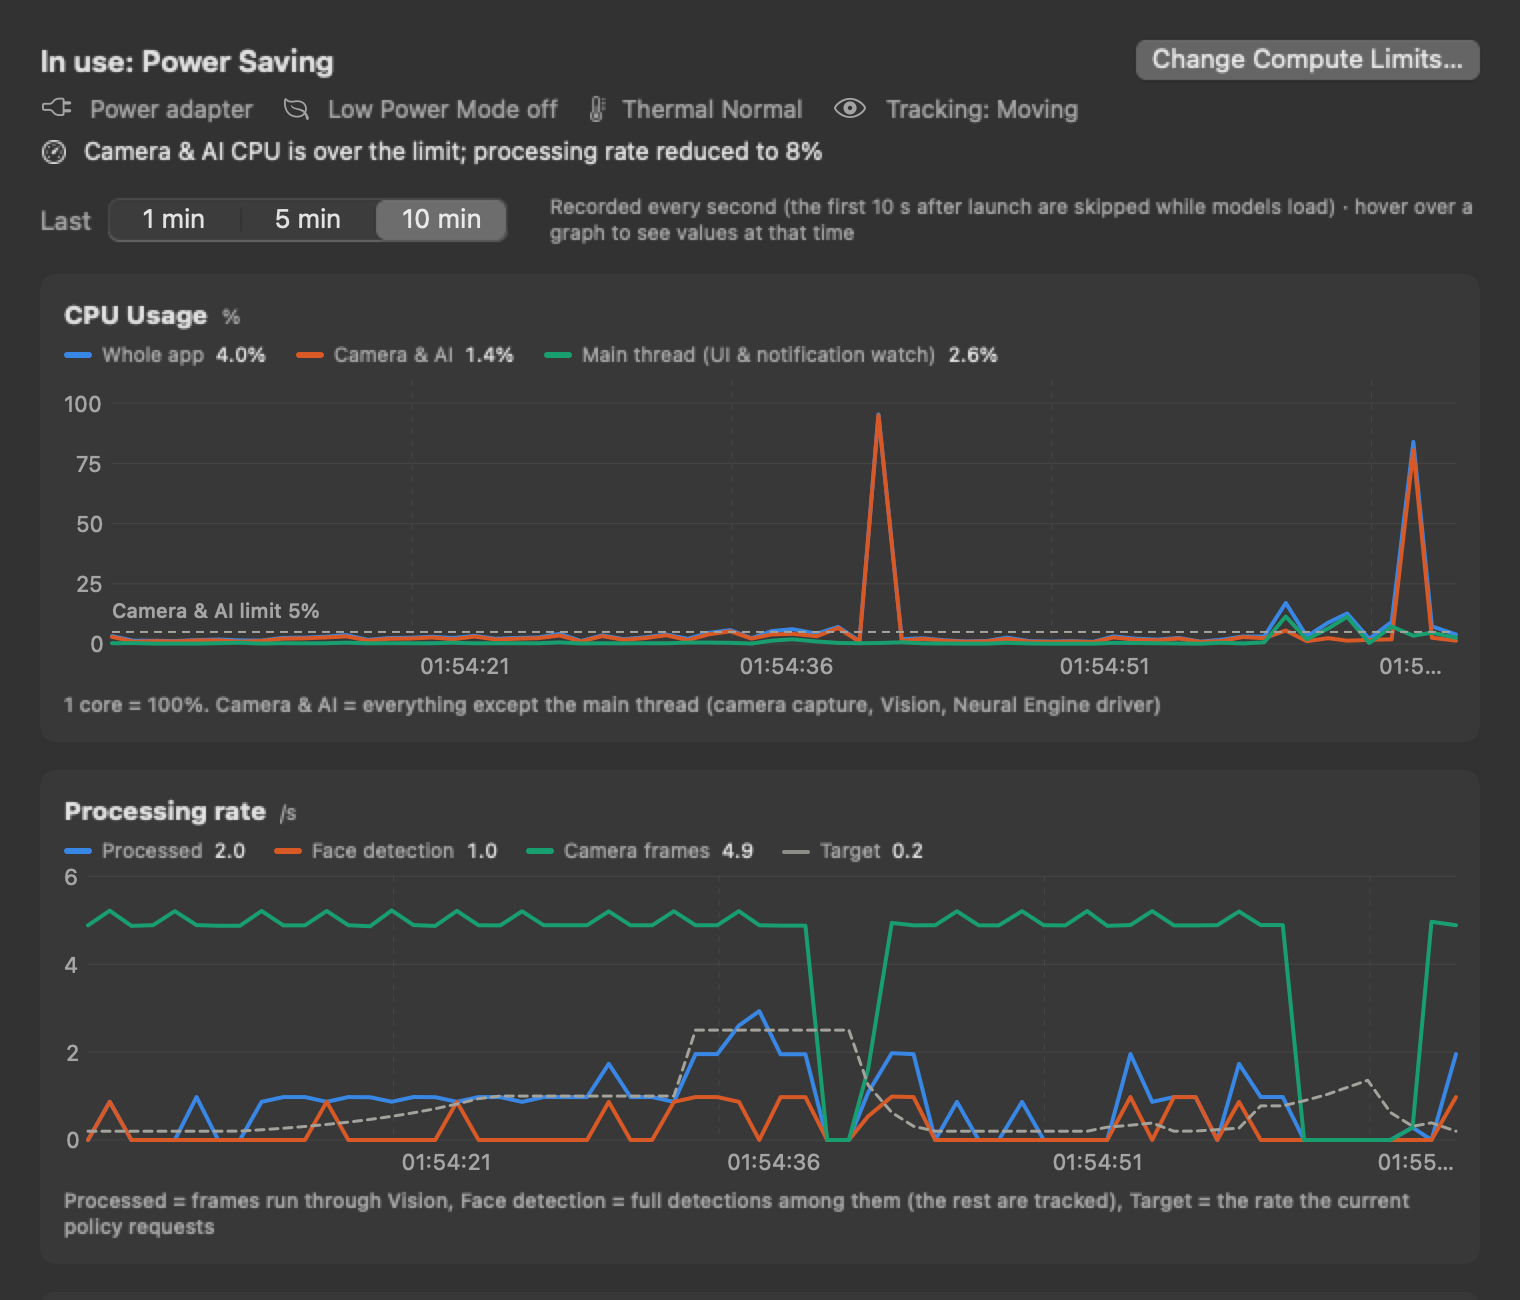
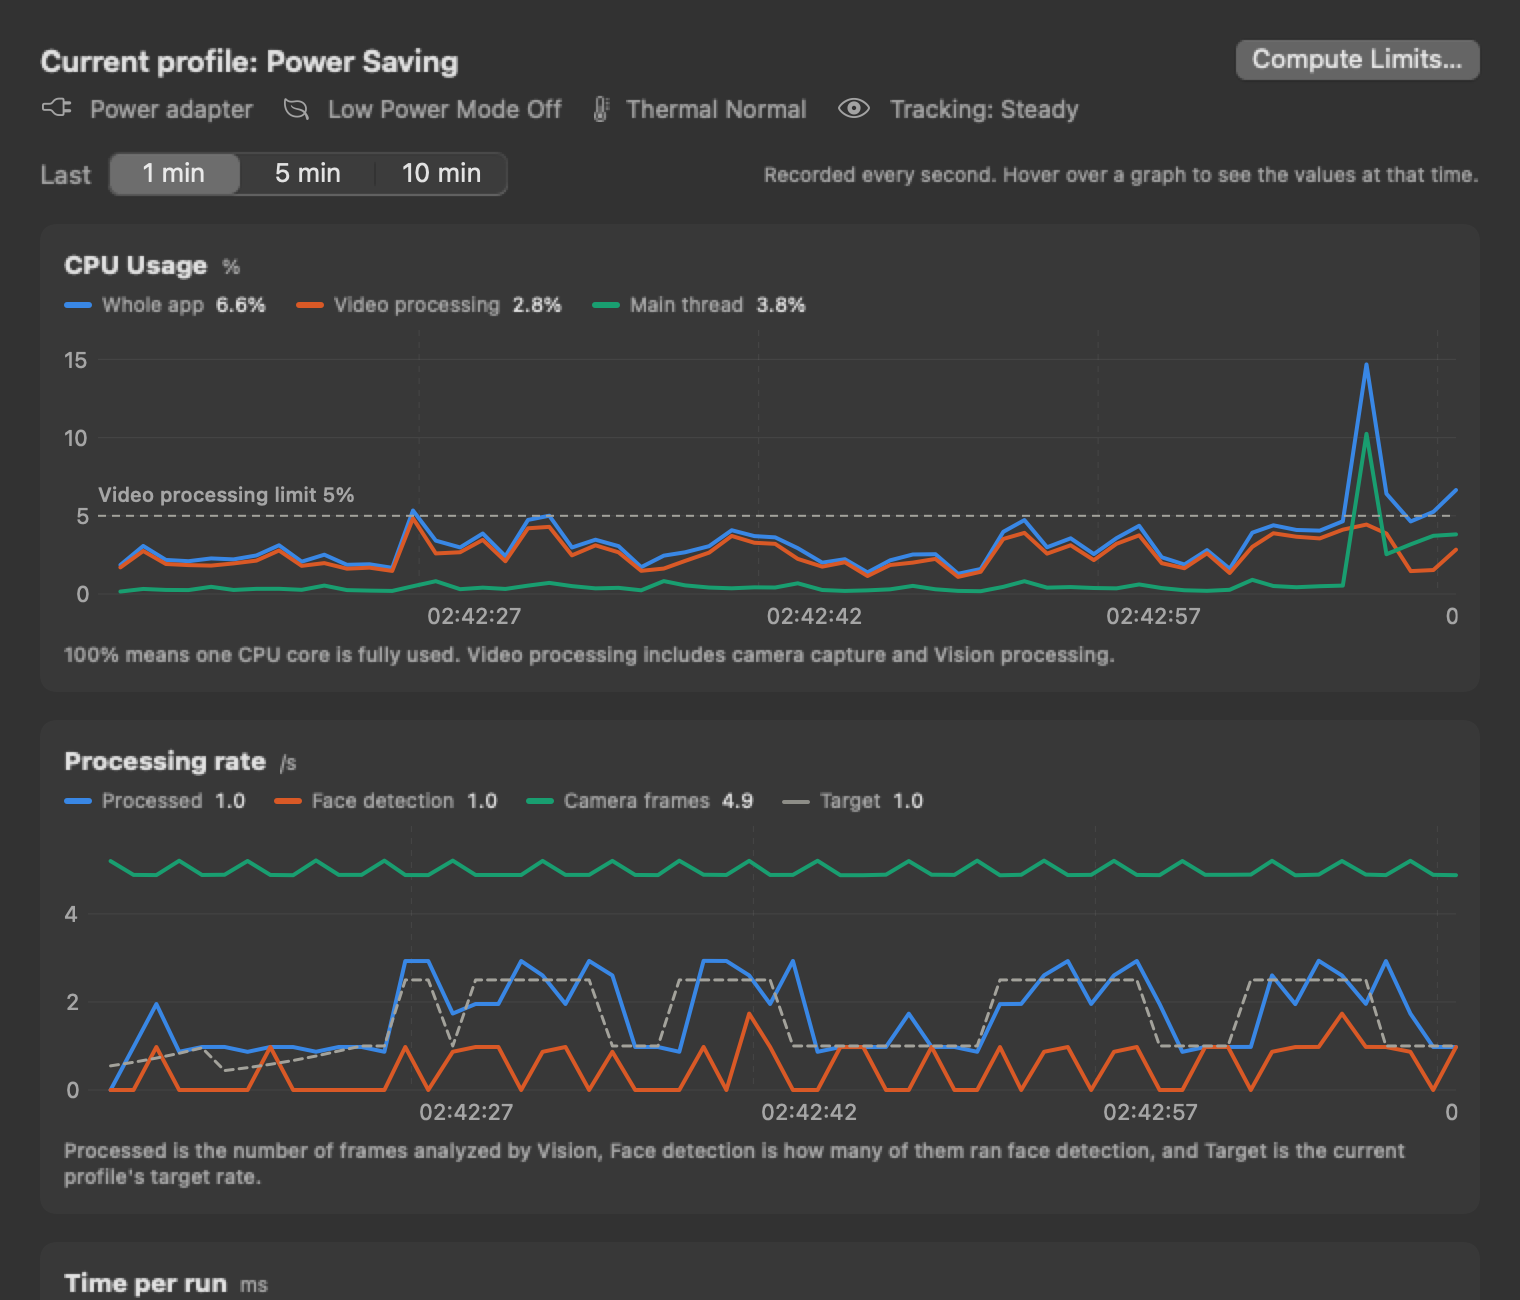
홈페이지: 새 문구로 앱 스크린샷 다시 찍기, 화면 이름 맞추기

diff --git a/site/i18n.js b/site/i18n.js
@@ -37,14 +37,14 @@ window.I18N = {
     "details.privacy.title": "영상은 Mac 밖으로 나가지 않습니다",
     "details.privacy.body": "카메라 영상은 메모리에서 얼굴 방향을 나타내는 숫자 몇 개로 바뀐 뒤 바로 버려집니다. 영상이나 사진을 저장하지 않으며, 앱에는 네트워크 기능이 없습니다.",
     "details.tune.title": "직접 맞출 수 있습니다",
-    "details.tune.body": "보정 결과 위에서 좌우 위치와 범위, 특징별 가중치, 떨림 억제, 구역 나누기를 손으로 조정할 수 있습니다. 얼굴 분석 방식 3가지와 추정 모델 3가지 가운데 오차가 가장 작은 조합을 자동으로 고릅니다.",
+    "details.tune.body": "보정 결과 위에서 좌우 위치와 범위, 특징 가중치, 반응 속도, 화면 구역을 직접 조정할 수 있습니다. 얼굴 분석 방식 3가지와 추정 모델 3가지 가운데 오차가 가장 작은 조합을 자동으로 고릅니다.",
     "details.graphs.title": "연산을 눈으로 확인합니다",
-    "details.graphs.body": "CPU 사용량, 초당 처리 횟수, 1회 처리 시간을 최근 10분 그래프로 보여 주고, 상황별 처리 횟수와 CPU 상한을 직접 정할 수 있습니다.",
+    "details.graphs.body": "CPU 사용량, 초당 처리 횟수, 1회 처리 시간을 최근 10분 그래프로 보여 주고, 상태별 처리 횟수와 CPU 한도를 직접 설정할 수 있습니다.",
     "details.lang.title": "4개 언어로 씁니다",
     "details.lang.body": "한국어, English, 日本語, 简体中文. 앱 메뉴에서 언어를 바꿀 수 있습니다.",
     "screens.title": "화면",
-    "screens.menu": "메뉴 막대 패널. 지금 상태와 1프레임 처리 과정을 보여 줍니다.",
-    "screens.performance": "성능 그래프. CPU, 처리 횟수, 처리 시간을 1초마다 기록합니다.",
+    "screens.menu": "메뉴 막대 패널. 현재 상태와 프레임 처리 단계를 보여 줍니다.",
+    "screens.performance": "성능 탭. CPU, 처리 횟수, 처리 시간을 1초마다 기록합니다.",
     "install.title": "설치",
     "install.1": "DMG를 열고 GazeNotification을 응용 프로그램 폴더로 끌어 놓습니다.",
     "install.2": "GazeNotification을 엽니다. Dock 대신 메뉴 막대에 눈 모양 아이콘이 생깁니다.",
@@ -111,14 +111,14 @@ window.I18N = {
     "details.privacy.title": "Video never leaves your Mac",
     "details.privacy.body": "Camera frames are turned into a few numbers describing your face direction in memory and discarded right away. No video or photos are saved, and the app has no networking at all.",
     "details.tune.title": "Tune it yourself",
-    "details.tune.body": "On top of the calibration you can adjust the horizontal shift and range, per-feature weights, jitter suppression, and screen zones by hand. It automatically picks the lowest-error combination of three face analysis methods and three estimation models.",
+    "details.tune.body": "On top of the calibration you can adjust the horizontal shift and range, feature weights, response speed, and screen zones by hand. It automatically picks the lowest-error combination of three face analysis methods and three estimation models.",
     "details.graphs.title": "See what it computes",
     "details.graphs.body": "Graphs of CPU usage, processing rate, and time per run over the last 10 minutes, with your own limits for each situation and a CPU cap.",
     "details.lang.title": "Four languages",
     "details.lang.body": "한국어, English, 日本語, 简体中文. Switch languages from the app's menu.",
     "screens.title": "Screenshots",
-    "screens.menu": "The menu bar panel shows the current status and the per-frame pipeline.",
-    "screens.performance": "Performance graphs record CPU, processing rate, and time per run every second.",
+    "screens.menu": "The menu bar panel shows the current status and each frame processing stage.",
+    "screens.performance": "The Performance tab records CPU, processing rate, and time per run every second.",
     "install.title": "Install",
     "install.1": "Open the DMG and drag GazeNotification into the Applications folder.",
     "install.2": "Open GazeNotification. An eye icon appears in the menu bar instead of the Dock.",
@@ -185,14 +185,14 @@ window.I18N = {
     "details.privacy.title": "映像は Mac の外に出ません",
     "details.privacy.body": "カメラの映像はメモリ上で顔の向きを表す数個の数値に変換され、すぐに破棄されます。映像や写真は保存せず、アプリにはネットワーク機能がありません。",
     "details.tune.title": "自分で調整できます",
-    "details.tune.body": "キャリブレーション結果の上で、左右の位置と範囲、特徴ごとの重み、揺れの抑制、区画分けを手動で調整できます。3つの顔解析方式と3つの推定モデルから、誤差が最も小さい組み合わせを自動で選びます。",
+    "details.tune.body": "キャリブレーション結果の上で、左右の位置と範囲、特徴の重み、反応速度、画面の区画を手動で調整できます。3つの顔解析方式と3つの推定モデルから、誤差が最も小さい組み合わせを自動で選びます。",
     "details.graphs.title": "処理を目で確かめられます",
     "details.graphs.body": "CPU 使用率、1秒あたりの処理回数、1回の処理時間を直近10分のグラフで表示し、状況ごとの処理回数と CPU の上限を自分で決められます。",
     "details.lang.title": "4つの言語に対応",
     "details.lang.body": "한국어、English、日本語、简体中文。アプリのメニューから言語を切り替えられます。",
     "screens.title": "スクリーンショット",
     "screens.menu": "メニューバーのパネル。現在の状態と1フレームの処理の流れを表示します。",
-    "screens.performance": "パフォーマンスのグラフ。CPU、処理回数、処理時間を1秒ごとに記録します。",
+    "screens.performance": "パフォーマンスタブ。CPU、処理回数、処理時間を1秒ごとに記録します。",
     "install.title": "インストール",
     "install.1": "DMG を開き、GazeNotification をアプリケーションフォルダにドラッグします。",
     "install.2": "GazeNotification を開きます。Dock の代わりにメニューバーに目のアイコンが表示されます。",
@@ -259,14 +259,14 @@ window.I18N = {
     "details.privacy.title": "视频不会离开你的 Mac",
     "details.privacy.body": "摄像头画面在内存中被转换为几个表示面部朝向的数字后立即丢弃。不保存视频或照片，应用也没有任何联网功能。",
     "details.tune.title": "可以自己调整",
-    "details.tune.body": "在校准结果之上，可以手动调整左右位置和范围、各特征权重、抖动抑制和区域划分。会自动从 3 种人脸分析方式和 3 种估计模型中选出误差最小的组合。",
+    "details.tune.body": "在校准结果之上，可以手动调整左右位置和范围、特征权重、响应速度和屏幕区域。会自动从 3 种人脸分析方式和 3 种估计模型中选出误差最小的组合。",
     "details.graphs.title": "直观查看运算",
     "details.graphs.body": "以最近 10 分钟的图表显示 CPU 使用率、每秒处理次数和单次处理时间，还可以自行设定各种情况下的处理次数和 CPU 上限。",
     "details.lang.title": "支持 4 种语言",
     "details.lang.body": "한국어、English、日本語、简体中文。可在应用菜单中切换语言。",
     "screens.title": "截图",
     "screens.menu": "菜单栏面板，显示当前状态和单帧处理流程。",
-    "screens.performance": "性能图表，每秒记录 CPU、处理次数和处理时间。",
+    "screens.performance": "“性能”标签页，每秒记录 CPU、处理次数和处理时间。",
     "install.title": "安装",
     "install.1": "打开 DMG，把 GazeNotification 拖到“应用程序”文件夹。",
     "install.2": "打开 GazeNotification。菜单栏会出现一个眼睛图标（不显示在程序坞中）。",
